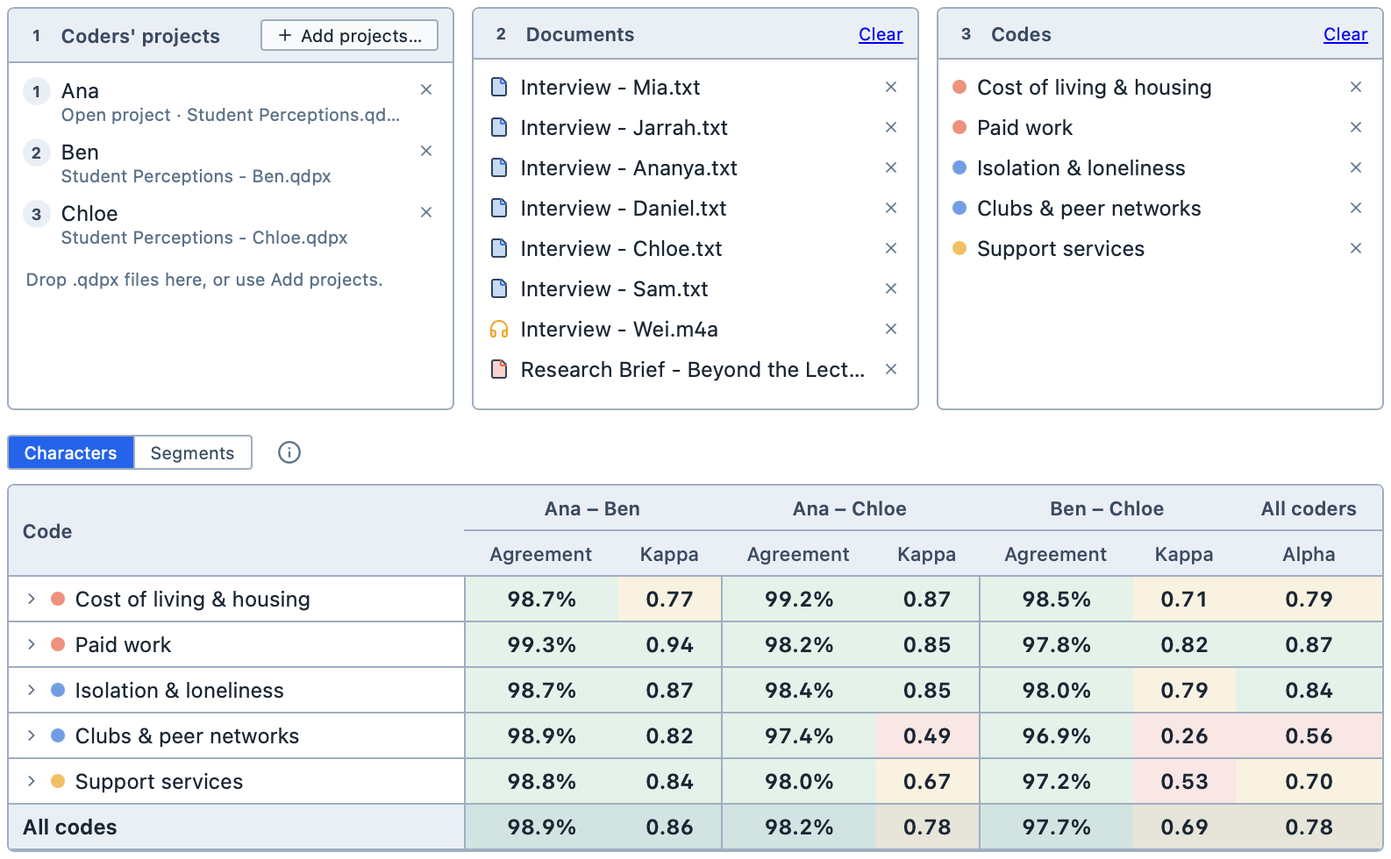
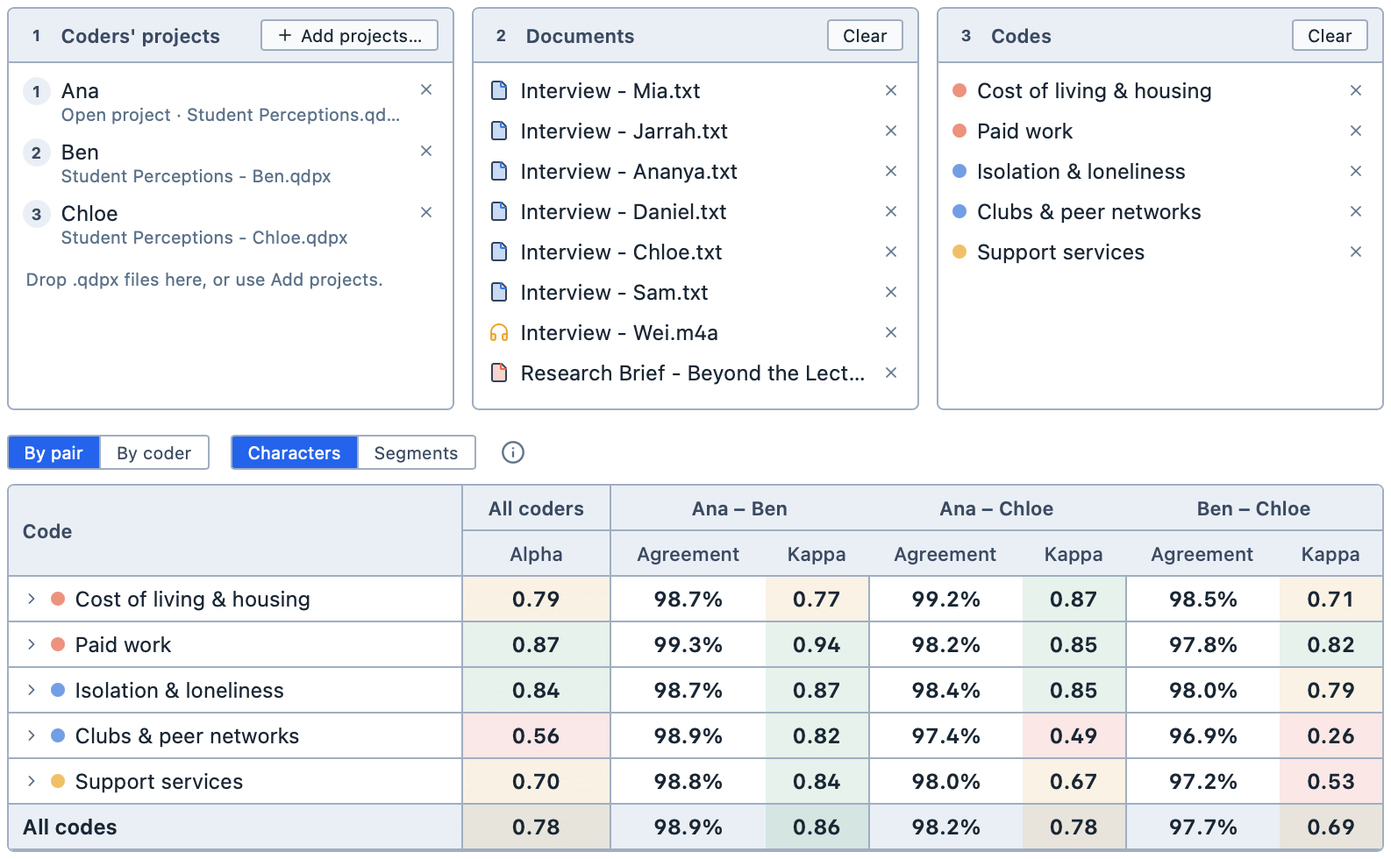
Expand the Inter-coder Agreement page, and update the analysis pages
Inter-coder Agreement now covers choosing between Characters and
Segments (with a diagram), By pair and By coder, the colour bands, how
good is good enough, what to do next, reporting results, and finding a
coder's project that has moved. Screenshots retaken.

Code Frequencies, Code Co-Occurrences, Codes in Documents and Results in
Documents describe how they now measure boxes, recordings and totals.

diff --git a/manual/guide/intercoder.md b/manual/guide/intercoder.md
@@ -15,10 +15,12 @@ Magnolia matches the copies up for you:
 - Codes are matched when they are the same code in each copy, or when they have the same name in the same place in the code tree.
 
 ::: tip
-Agree on the codebook before anyone starts coding. If a coder renames a code or moves it to another place in the tree, Magnolia treats it as a different code.
+Agree on the codebook before anyone starts coding, and write a short description of each code. If a coder renames a code or moves it to another place in the tree, Magnolia treats it as a different code.
 :::
 
 Each coder is named after the person who last saved their file, as entered in `Preferences`. The project you have open is named after you.
+
+Coders can code any kind of document: text, PDFs (their text or boxes drawn on the page), images, surveys, and audio and video (their transcript or the timeline).
 
 **To open the Inter-coder Agreement tool:**
 
@@ -41,9 +43,9 @@ The project you have open is already in the list.
 
 **To add another coder's project:**
 
-1. Click `Add projects…` and choose one or more `.qdpx` files; or,
+1. Click `Add projects…`.
 
-2. Drag the `.qdpx` files from Finder or File Explorer into the box.
+2. Choose one or more `.qdpx` files, and click `Open`.
 
 To remove a project, click the `x` beside it.
 
@@ -71,35 +73,59 @@ If a document's text is not the same in every project (for example, because a co
 
 Each code is compared on its own. If you would like to include a code's subcodes, add them as codes of their own.
 
-## Reading the results
+## Characters or Segments?
 
-The results appear beneath the three boxes as soon as there are two projects, a document and a code. You can compare the coders in two ways, by choosing `Characters` or `Segments`.
+The results appear beneath the three boxes as soon as there are two projects, a document and a code. There are two ways to compare coders, and you can switch between them at any time with `Characters` and `Segments`.
 
-### Characters
+<figure>
+     <img src="./images/InterCoderMeasures.png" alt="Two codings of the same line, compared character by character and as whole passages.">
+     <figcaption>The same two codings, compared both ways.</figcaption>
+</figure>
+
+- `Characters` goes through the documents piece by piece (every character of text, every moment of a recording, every point of a page or image) and asks whether both coders coded it the same way. Exactly where a passage starts and stops matters.
+
+- `Segments` takes the coded passages one at a time and asks whether the other coder coded the same passage with the same code. Small differences at a passage's edges don't matter, within the `Overlap` you choose.
+
+| | Characters | Segments |
+| --- | --- | --- |
+| Compares | Every part of every document | Each coded passage, as a whole |
+| Main figures | Kappa, and alpha for three or more coders | % of passages matched |
+| Good for | Reporting a single, widely recognised figure | Finding the passages worth discussing |
+| Sensitive to | Where passages start and stop | The `Overlap` you choose |
+
+Many teams use both: `Characters` for the figures they report, and `Segments` to see which passages the coders disagreed about.
+
+## Reading the results: Characters
 
 <figure>
      <img src="./images/InterCoderOverview.png" alt="The Inter-coder Agreement tool with two coders, eight documents and five codes.">
      <figcaption>Comparing two coders, character by character.</figcaption>
 </figure>
 
-`Characters` compares every part of every document: every character of text, every millisecond of audio and video, and every point of a PDF page or image. For each part, it checks whether each coder applied the code to it. For each pair of coders, the table shows:
+For each pair of coders, the table shows:
 
 | Column | What it shows |
 | --- | --- |
-| `Agreement` | The percentage of the documents that both coders coded the same way, whether they both applied the code or both left it out. |
-| `Kappa` | Cohen's kappa: how much better the coders agree than they would by chance. 1 is perfect agreement, and 0 is no better than chance. |
+| `Agreement` | How much of the documents both coders treated the same way: they both applied the code, or both left it out. |
+| `Kappa` | How well the two coders agree, after allowing for the agreement you'd expect by luck alone (Cohen's kappa). 1 is complete agreement, and 0 is no better than luck. |
 
 ::: tip
-Agreement is usually very high, because the parts of a document that neither coder applied the code to count as agreement too. Kappa takes this into account, so it is the better figure for telling coders apart.
+`Agreement` is nearly always very high, because the parts of a document that neither coder applied the code to count as agreement too. In the example above, every code is above 98%. `Kappa` takes this into account, so it is the figure to look at, and the one to report.
 :::
 
-The cells are shaded to help you spot weak agreement:
+`Kappa` cells are shaded to help you spot weak agreement. `Agreement` isn't shaded, because it is always high.
 
-| Shade | Kappa | Agreement |
-| --- | --- | --- |
-| Green | 0.80 or more | 90% or more |
-| Yellow | 0.60 to 0.79 | 80% to 89% |
-| Red | Below 0.60 | Below 80% |
+| Shade | Kappa |
+| --- | --- |
+| Green | 0.80 or more |
+| Amber | 0.60 to 0.79 |
+| Red | Below 0.60 |
+
+A kappa of `–` means that neither coder applied the code, so there is nothing to compare.
+
+Hover over any column heading to see what it shows.
+
+### Results for each document
 
 Click the `>` beside a code to see its results in each document.
 
@@ -108,74 +134,206 @@ Click the `>` beside a code to see its results in each document.
      <figcaption>The results for one code, document by document.</figcaption>
 </figure>
 
-A kappa of `–` means that neither coder applied the code in that document, so there is nothing to compare.
+A code's own row brings all the documents together, so a long document counts for more than a short one.
 
-The `All codes` row brings every code together into a single figure for each pair of coders.
+### All codes
 
-### Three or more coders
+The `All codes` row brings every code together into a single figure for each pair of coders. Each code counts equally, however much it was used.
 
-With three or more coders, the table has columns for every pair of coders, and an `All coders` column showing Krippendorff's alpha. Alpha measures the agreement between all the coders at once, and reads like kappa: 1 is perfect agreement, and 0 is no better than chance.
+## Reading the results: Segments
 
-<figure>
-     <img src="./images/InterCoderThreeCoders.png" alt="Three coders compared in pairs, with Krippendorff's alpha across all three.">
-     <figcaption>Comparing three coders.</figcaption>
-</figure>
+`Segments` compares the coded passages themselves. A passage agrees when the other coder applied the same code to a passage that overlaps it closely enough. You choose how closely with the `Overlap` slider: at 90%, the part the two passages share must be at least 90% of everything they cover together.
 
-### Segments
-
-`Segments` compares the coded segments themselves, rather than every character. A segment agrees when the other coder applied the same code to a segment that overlaps it closely enough. You can choose how closely with the `Overlap` slider: at 90%, the part the two segments share must be at least 90% of the span they cover together.
+For example, say one coder codes words 1 to 10 and the other codes words 2 to 10. They share 9 of the 10 words they cover together (90%), so they agree when `Overlap` is 90% or lower. If the other coder had coded words 1 to 20, they would share 10 of 20 words (50%), and would only agree with `Overlap` at 50% or lower.
 
 <figure>
      <img src="./images/InterCoderSegments.png" alt="The results compared by segments, with the overlap slider at 90%.">
-     <figcaption>Comparing coded segments.</figcaption>
+     <figcaption>Comparing coded segments, with Paid work shown for each document.</figcaption>
 </figure>
 
 | Column | What it shows |
 | --- | --- |
-| `Agreed` | The segments that the other coder matched. |
-| `Segments` | All the segments from both coders. |
-| `Agreement` | The agreed segments as a percentage of all the segments. |
+| `Agreed` | How many of the two coders' passages the other coder also coded in nearly the same place. |
+| `Segments` | How many passages the two coders coded between them. |
+| `Agreement` | The agreed passages as a percentage of all the passages. |
 
-Beneath the table is Brennan and Prediger's kappa, calculated over all the codes you have chosen.
+In the example above, Ana and Ben coded 25 passages of Paid work between them, and 20 of those were matched by the other coder: an agreement of 80%.
+
+`Agreement` cells are shaded:
+
+| Shade | Agreement |
+| --- | --- |
+| Green | 80% or more |
+| Amber | 70% to 79% |
+| Red | Below 70% |
+
+Beneath the table is Brennan and Prediger's kappa for each pair of coders, worked out over all the codes you have chosen. It reads like the kappa for `Characters`, but counts passages.
+
+::: tip
+`Overlap` makes a big difference. At 90%, coders must mark almost exactly the same stretch, so coders who agree about what a passage means but start it a clause apart will disagree. Try lowering `Overlap` to 60% or 70%: if agreement rises a lot, the coders mostly differ about where passages begin and end, not about what they mean. Whichever you choose, report it alongside your results.
+:::
+
+## Three or more coders
+
+With three or more coders, you can look at the results in two ways, by choosing `By pair` or `By coder`.
+
+### By pair
+
+`By pair` compares every pair of coders, with an `All coders` column first:
+- With `Characters`, `All coders` shows `Alpha` (Krippendorff's alpha): how well all the coders agree together, after allowing for agreement by luck. It reads like kappa, and is shaded the same way.
+- With `Segments`, `All coders` shows `Average agreement`: the average of every pair's agreement, with each pair counting equally.
+
+<figure>
+     <img src="./images/InterCoderThreeCoders.png" alt="Three coders compared in pairs, with Krippendorff's alpha across all three.">
+     <figcaption>Comparing three coders, pair by pair.</figcaption>
+</figure>
+
+The `All coders` column stays in place when you scroll the table sideways, so you can always compare a pair with the group.
+
+### By coder
+
+`By coder` compares each coder with all the others, so you can see whether one coder is coding differently from the rest of the team.
+
+<figure>
+     <img src="./images/InterCoderByCoder.png" alt="Each coder's average kappa and alpha without them, for three coders.">
+     <figcaption>Comparing each coder with the others, character by character.</figcaption>
+</figure>
+
+With `Characters`, each coder has two columns:
+
+| Column | What it shows |
+| --- | --- |
+| `Average kappa` | How well this coder agrees with the others on average: the average of their kappa with each other coder. |
+| `Alpha without` | How well the other coders agree among themselves when this coder is left out. Beside it, in brackets, is how much that differs from the `All coders` alpha. |
+
+The figure in brackets is the one to watch. A plus means the others agree better without this coder:
+
+| Colour | Change | What it suggests |
+| --- | --- | --- |
+| Red | +0.10 or more | This coder is clearly out of step with the others. |
+| Amber | +0.05 to +0.09 | Worth a look. |
+| Grey | Less than +0.05 | This coder is in line with the others. Small changes are usually down to chance. |
+
+For example, look at Clubs & peer networks above. Alpha for all three coders is 0.56. Without Chloe, it rises to 0.82 (+0.26): Ana and Ben agree well with each other, and Chloe codes this code differently. Without Ana, it falls to 0.26 (−0.30), which shows that Ana is the coder the others agree with most. Chloe's average kappa, 0.38, is also the lowest of the three.
+
+::: info
+The shading of `Alpha without` describes the other coders: it shows how well they agree among themselves, on the same scale as alpha. Whether this coder is out of step is shown by the colour of the figure in brackets.
+:::
+
+With `Segments`, each coder has one column, `Average agreement`: the average of their agreement with each other coder. It is shaded like `Agreement` for `Segments`.
+
+<figure>
+     <img src="./images/InterCoderByCoderSegments.png" alt="Each coder's average agreement with the others, by segments.">
+     <figcaption>Comparing each coder with the others, by segments.</figcaption>
+</figure>
+
+To see where a coder differs, switch to `By pair` and click their results with the other coders (see below).
+
+## How good is good enough?
+
+There is no single rule, but these are common guides:
+
+| Figure | Strong | Acceptable | Worth discussing |
+| --- | --- | --- | --- |
+| Kappa and alpha | 0.80 or more | 0.60 to 0.79 | Below 0.60 |
+| Segment agreement | 80% or more | 70% to 79% | Below 70% |
+
+The table's colours follow these bands. Bear in mind that:
+- Segment agreement depends heavily on `Overlap`, so always report the `Overlap` you used;
+- A code that was used only a few times can swing a long way on one or two passages, so look at how much it was used before drawing conclusions; and,
+- The figures tell you where coders differ, not who is right. A coder who is out of step may have spotted something the others missed.
+
+::: info
+Some qualitative approaches, such as reflexive thematic analysis, see coding as interpretation rather than measurement, and don't use agreement figures at all. If that is your approach, you can still use the tool to find the passages to talk about, and leave the numbers out of your report.
+:::
 
 ## Seeing where coders differ
 
-Click any result to see the passages behind it. The two coders' coding appears side by side, with each coder's coded text highlighted, so you can see exactly where they differ.
+Click any result in a pair's columns to see the passages behind it. The tool scrolls down to the two coders' coding, side by side, with each coder's coded text highlighted, so you can see exactly where they differ.
 
 <figure>
      <img src="./images/InterCoderCompare.png" alt="Two coders' coding of the same passages, side by side.">
      <figcaption>Where Ana and Ben coded Paid work differently.</figcaption>
 </figure>
 
-Only the passages where the coders differ are shown at first. Tick `Show agreements too` to see every passage. For audio and video, you see the transcript lines each coder coded, or their time ranges if the recording has no timed transcript. For PDFs and images, you see the outline of the box each coder drew, over the page or image itself on your own project's side.
+The heading shows how many passages there are, and how many of them differ. Only the passages where the coders differ are shown at first. Tick `Show agreements too` to see every passage.
 
-Click the `x` to close the comparison.
+What you see depends on the kind of document:
+- For text, PDFs and surveys, you see the coded text with a little of the text around it;
+- For audio and video, you see the transcript lines each coder coded, or their time ranges if the recording has no timed transcript; and,
+- For PDFs and images, you see the outline of the box each coder drew, over the page or image itself on your own project's side.
+
+A result on a code's own row shows its passages in every document; a result on one of its document rows shows just that document. Click the `x` to close the comparison.
+
+## What to do next
+
+Checking agreement is usually one step in a cycle, rather than the end of the work:
+
+1. **Discuss the differences.** Sit down together with the passages where the coders differed, and ask why. Usually a code's description is unclear, two codes overlap, coders draw a passage's edges differently, or someone simply missed a passage.
+
+2. **Improve the codebook.** Tighten the codes' descriptions, add rules for when to use a code (and when not to), add examples, and merge or split codes that keep getting confused.
+
+3. **Agree on the coding.** Many teams settle each difference and change the coding to match, sometimes with a third person to decide.
+
+4. **Check again.** Code a fresh set of documents with the revised codebook, and compare again until agreement is good enough. Then the coders can usually split the remaining documents between them.
+
+::: tip
+Save the analysis after each round, with a name such as "Round 1". You can then show how agreement improved, and add each round to a [Report](/guide/reports).
+:::
+
+## Reporting your results
+
+When you write up your results, it is usual to report:
+- The measure you used (`Characters` or `Segments`), and for `Segments`, the `Overlap`;
+- How many coders, documents and codes you compared;
+- The figures for each code, as well as for all codes together; and,
+- How you resolved the differences.
+
+A few details about how Magnolia works things out are useful to know:
+- A code's row brings all its documents together, so a long document counts for more than a short one;
+- `All codes` uses the pooled kappa of de Vries et al. (2008), which combines the codes' agreement before working out kappa, so each code counts equally (alpha is pooled the same way);
+- `Average kappa` and `Average agreement` are simple averages over pairs of coders, with each pair counting equally;
+- `Alpha without` is worked out on exactly the same documents and codes as `Alpha`, with one coder left out, so the two can be compared directly;
+- Brennan and Prediger's kappa treats a passage that only one coder coded as a disagreement, so it may differ from the segment kappa in other programs; and,
+- If one coder coded a recording on its transcript and another coded it on the timeline, Magnolia compares that code in that recording by time, using the times of the transcript lines. A coding of part of a line then counts for the whole line. Where every coder coded the transcript, it is compared character by character.
 
 ## How the results are calculated
 
-Click the `ⓘ` button beside `Characters` and `Segments` to see how each figure is calculated, with its formula.
+Click the `ⓘ` button beside `Characters` and `Segments` to see how to choose between them, what each figure means in plain terms, and how it is calculated, with its formula.
 
 <figure>
      <img src="./images/InterCoderInfo.png" alt="The explanation of how agreement is calculated.">
-     <figcaption>Clicking the ⓘ button explains how the results are calculated.</figcaption>
+     <figcaption>Clicking the ⓘ button explains what the results mean and how they are calculated.</figcaption>
 </figure>
-
-A few things are useful to know when you report your results:
-- A code's row brings together all the documents, so a long document counts for more than a short one;
-- `All codes` uses the pooled kappa of de Vries et al. (2008), which combines the codes' agreement before calculating kappa;
-- Brennan and Prediger's kappa treats a segment that only one coder coded as a disagreement, so it may differ from the segment kappa in other programs; and,
-- If one coder coded a recording on its transcript and another coded it on the timeline, Magnolia compares that code in that recording by time, using the times of the transcript lines. A coding of part of a line then counts for the whole line. Where every coder coded the transcript, it is compared character by character.
 
 ## Saving and exporting
 
-You can save the analysis by clicking `Save Analysis`. It appears in the Saved Analyses Panel. If you make changes later, click `Update Analysis` to save them.
+You can save the analysis by clicking `Save Analysis`. It appears in the Saved Analyses Panel. If you make changes later, click `Update Analysis` to save them. The analysis remembers your choices, including `Characters` or `Segments`, `By pair` or `By coder`, and the `Overlap`.
 
-When you open a saved analysis again, Magnolia reads the coders' projects again, so the results include any coding they have done since. If a project has been moved or deleted, Magnolia shows the results as they were when you saved them.
+When you open a saved analysis again, Magnolia reads the coders' projects again, so the results include any coding they have done since.
 
-::: info
-If you add a project by dragging it into the box, Magnolia can't find it again after you restart Magnolia. To keep a saved analysis up to date, add the projects with `Add projects…` instead.
-:::
+### If a coder's project can't be found
 
-You can export the table as a spreadsheet by clicking `Export CSV`.
+If a coder's project has been moved, renamed or deleted since you saved the analysis, Magnolia warns you:
+- A warning sign appears beside the analysis in the Saved Analyses Panel;
+- When you open the analysis, a message at the top tells you which project can't be opened; and,
+- In the `Coders' projects` box, the project is marked with a warning sign, with a `Locate…` button beside it.
 
-You can also add the analysis to a [Report](/guide/reports) by dragging it from the Saved Analyses Panel into the report.
+<figure>
+     <img src="./images/InterCoderMissing.png" alt="A coder's project that can't be found, with the warning and the Locate button.">
+     <figcaption>Chloe's project has been moved, so Magnolia asks you to locate it.</figcaption>
+</figure>
+
+Until you locate the project, Magnolia shows the results as they were when you last saved the analysis.
+
+**To find a missing project again:**
+
+1. Click `Locate…` beside the project.
+
+2. Choose the project's `.qdpx` file in its new place, and click `Open`.
+
+3. Click `Update Analysis` to remember the new place.
+
+You can export the table as a spreadsheet by clicking `Export CSV`. It exports the table as you see it, with every code's results for each document. With `By coder`, the change from alpha has a column of its own.
+
+You can also add the analysis to a [Report](/guide/reports) by dragging it from the Saved Analyses Panel into the report. The report shows the results as they were when you last saved the analysis.

diff --git a/manual/guide/codefrequencies.md b/manual/guide/codefrequencies.md
@@ -33,6 +33,8 @@ The tool contains:
 
 Each cell shows the percentage of that document covered by that code. Where selections coded with the same code overlap, the overlapping part is only counted once.
 
+If you group your documents, a column that holds more than one document shows the average of its documents' percentages, and its heading is marked `(average)`. Each document counts equally, however long it is.
+
 How the percentage is calculated depends on the type of document:
 
 | Document type | Percentage of |
@@ -40,15 +42,17 @@ How the percentage is calculated depends on the type of document:
 | Text | The characters in the document |
 | Audio and video | The length of the recording (see below) |
 | PDF (text selections) | The text in the PDF |
-| PDF (box selections) | The box selections in the PDF |
-| Image | The box selections in the image |
+| PDF (box selections) | The area of all of the PDF's pages |
+| Image | The area of the image |
 | Survey | The text of the open-ended answers |
 
 ::: info
-Images do not have a "length" in the way that text or recordings do, so Magnolia measures them by their selections instead. If an image has four box selections and one of them is coded with a code, that code covers 25% of the image. You can see these rules at any time by clicking the `ⓘ` button above the table.
+Images and box selections are measured by area. If a code's boxes cover half of an image, that code covers 50% of the image. If a code has both text and box selections in a PDF, its percentage is the average of the two. You can see these rules at any time by clicking the `ⓘ` button above the table.
 :::
 
-For audio and video, a coding made on the timeline counts for the time it covers. A coding made on the transcript counts for the transcript lines it covers, using the times of those lines. If any coding can't be placed in time, because the transcript has no timestamps, or if Magnolia doesn't know how long the recording is, it measures the percentage of the transcript's text instead.
+For audio and video, a coding made on the timeline counts for the time it covers. A coding made on the transcript counts for the transcript lines it covers, using the times of those lines. If any coding can't be placed in time, because the transcript has no timestamps, Magnolia measures the percentage of the transcript's text instead.
+
+If Magnolia can't read the size of an image or a PDF's pages, or the length of a recording, from its file, it estimates it from what has been coded. The documents it has estimated are named below the table.
 
 <figure>
      <img src="./images/CodeFrequenciesInfo.png" alt="The explanation of how frequencies are calculated.">

diff --git a/manual/guide/resultsindocuments.md b/manual/guide/resultsindocuments.md
@@ -30,7 +30,7 @@ Only saved queries can be added. You can save a query by clicking `Save Query` i
 
 ## Reading the results
 
-Each cell shows how many results that query finds in that document (or group of documents). The `Total` column and row add up the table, and the `% of Total` column shows each row's total as a percentage of the grand total. The `Total` row also shows how many documents the table covers.
+Each cell shows how many results that query finds in that document (or group of documents). The `Total` column shows how many results each query finds across the table, and the `Total` row adds up each column. A document in more than one group appears in each of their columns, but its results are only counted once in the `Total` column. The `% of Total` column shows each row's total as a percentage of the grand total. The `Total` row also shows how many documents the table covers.
 
 <figure>
      <img src="./images/ResultsInDocumentsNumeric.png" alt="The results table.">

diff --git a/manual/guide/codesindocuments.md b/manual/guide/codesindocuments.md
@@ -31,7 +31,7 @@ The tool contains:
 
 Each cell shows how many selections in that document (or group of documents) are coded with that code.
 
-- The `Total` column adds up each row, and the `Total` row adds up each column.
+- The `Total` column shows how many selections each code is applied to across the table, and the `Total` row adds up each column. A document in more than one group appears in each of their columns, but its selections are only counted once in the `Total` column.
 - The `% of Total` column shows each row's total as a percentage of the grand total.
 - If you group by a tag category or a folder, its columns are followed by a `Subtotal` column and a `%` column. The `%` column shows the subtotal as a percentage of the row's total.
 

diff --git a/manual/guide/codecooccurrences.md b/manual/guide/codecooccurrences.md
@@ -6,6 +6,8 @@ Two codes occur together when:
 - They are applied to the same selection; or,
 - They are applied to selections that overlap.
 
+Box selections overlap when their boxes overlap on the same page. In audio and video, a coding made on the timeline overlaps another coding when they share a moment of the recording; for a coding made on the transcript, Magnolia uses the times of its lines.
+
 **To open Code Co-Occurrences:**
 
 1. Click the `Analyse` tab in the ribbon.
